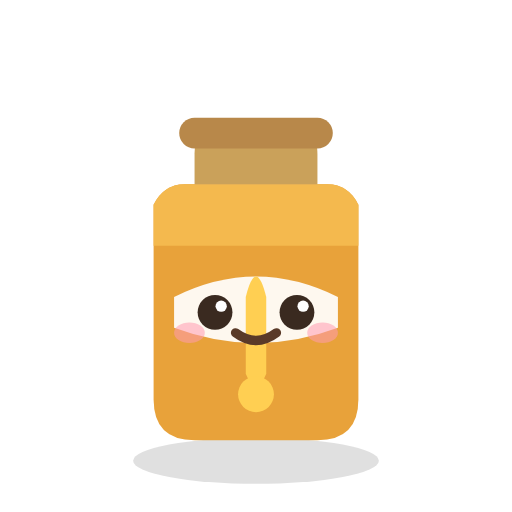
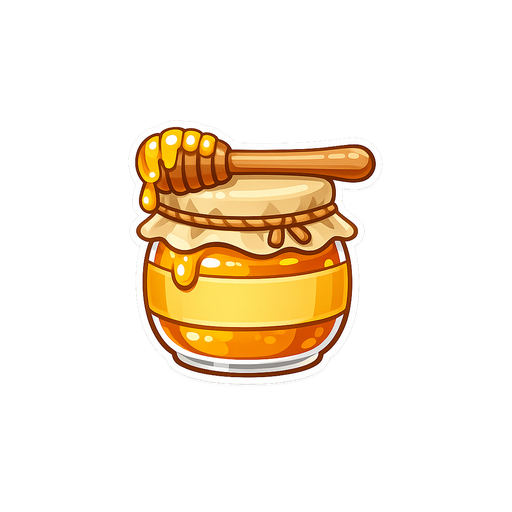
ChatGPT 美術第四批：關係配對 20 種食物全套 — 全美術完工 (v1.2.3)
- 16 種專屬食物 f-meat/worm/carrot/bamboo/bone/honey/cheese/peanut/leaf/hay/corn/grass/bread/eucalyptus/lettuce/chestnut
- 至此所有遊戲美術皆 GPT 生圖完成（數數樂園/記憶/關係動物+食物）
- sw.js 快取 v11→v12

Changed region(s): [[0.25, 0.2188, 0.75, 0.9688]]

diff --git a/sw.js b/sw.js
@@ -3,7 +3,7 @@
    策略：預先快取 App 殼層；之後用 stale-while-revalidate，
    先回快取（離線可玩），背景再更新，不需手動改版本就會自動更新。
    ============================================================ */
-const CACHE = "mlp-cache-v11";
+const CACHE = "mlp-cache-v12";
 
 const ASSETS = [
   "./",

diff --git a/docs/更新紀錄.md b/docs/更新紀錄.md
@@ -4,6 +4,16 @@
 
 ---
 
+## [1.2.3] － 2026-06-07｜ChatGPT 美術第四批：關係配對 20 種食物全套上線（全美術完工）🍌🎉
+### 新增／替換
+- **關係配對 20 種食物全部換成 ChatGPT 生圖**：香蕉／肉(雞腿)／蟲／紅蘿蔔／魚／竹子／骨頭／蜂蜜／起司／花生／樹葉／花／牧草／玉米／青草／麵包／葡萄／尤加利葉／生菜／栗子
+- 本批新增 16 種專屬食物：meat/worm/carrot/bamboo/bone/honey/cheese/peanut/leaf/hay/corn/grass/bread/eucalyptus/lettuce/chestnut（其餘 4 種共用：fish/flower/banana/grapes）
+### 🎯 全部美術 GPT 化完工
+至此**所有遊戲美術都已用 ChatGPT 生圖完成**：數數樂園（6 背景＋6 物件）、記憶配對（20）、關係配對（22 動物＋20 食物），畫風一致的可愛扁平插畫，全部去背／滿版處理後上線。
+### 影響檔案
+- 新增 `assets/img/f-*.png`（16 張）、`sw.js`（快取 `v11`→`v12`）
+- 規模：大型（替換大量素材）
+
 ## [1.2.2] － 2026-06-07｜ChatGPT 美術第三批：關係配對 22 種動物全套上線 🐾🎨
 ### 新增／替換
 - **關係配對 22 種動物全部換成 ChatGPT 生圖**：猴子／老虎／小鳥／兔子／貓／熊貓／狗／熊／老鼠／大象／長頸鹿／蜜蜂／馬／豬／牛／鴨／狐狸／無尾熊／烏龜／松鼠／公雞／綿羊

diff --git a/docs/美術素材清單.md b/docs/美術素材清單.md
@@ -1,7 +1,8 @@
 # 🎨 美術素材清單
 
-> ✅ **這些圖我已經自己畫好放進 `assets/img/` 了**（74 張一致畫風的手繪扁平插畫，遊戲已自動套用）。
-> 下面保留完整清單與提示詞，方便你**日後想換成自己／ChatGPT 的風格**時：用**同樣檔名**的圖覆蓋即可，遊戲會自動換上、缺檔則退回 emoji。
+> ✅ **2026-06-07：全部素材已改用 ChatGPT 生圖完成並上線**（數數樂園背景＋物件、記憶配對 20、關係配對 22 動物＋20 食物，畫風一致的可愛扁平插畫，已自動去背／滿版處理）。
+> 下面保留完整清單與提示詞，方便你**日後想再換風格**時：用**同樣檔名**的圖覆蓋即可，遊戲會自動換上、缺檔則退回 emoji。
+> 製作流程（本機可重現）：用 Chrome 開 `chatgpt.com` 生圖 → 頁內 `fetch`→`blob` 下載 → `Temp/mlp_shots/process_art.py`（Pillow 自動去背裁邊／縮圖）→ 存入 `assets/img/`。
 
 > 你用 ChatGPT 生成圖片後，存成下面的**檔名**放進 `assets/img/` 資料夾即可，遊戲會**自動換成圖片**；
 > 還沒放圖之前會先用 emoji，所以**可以慢慢一張一張生、隨時看效果**。
